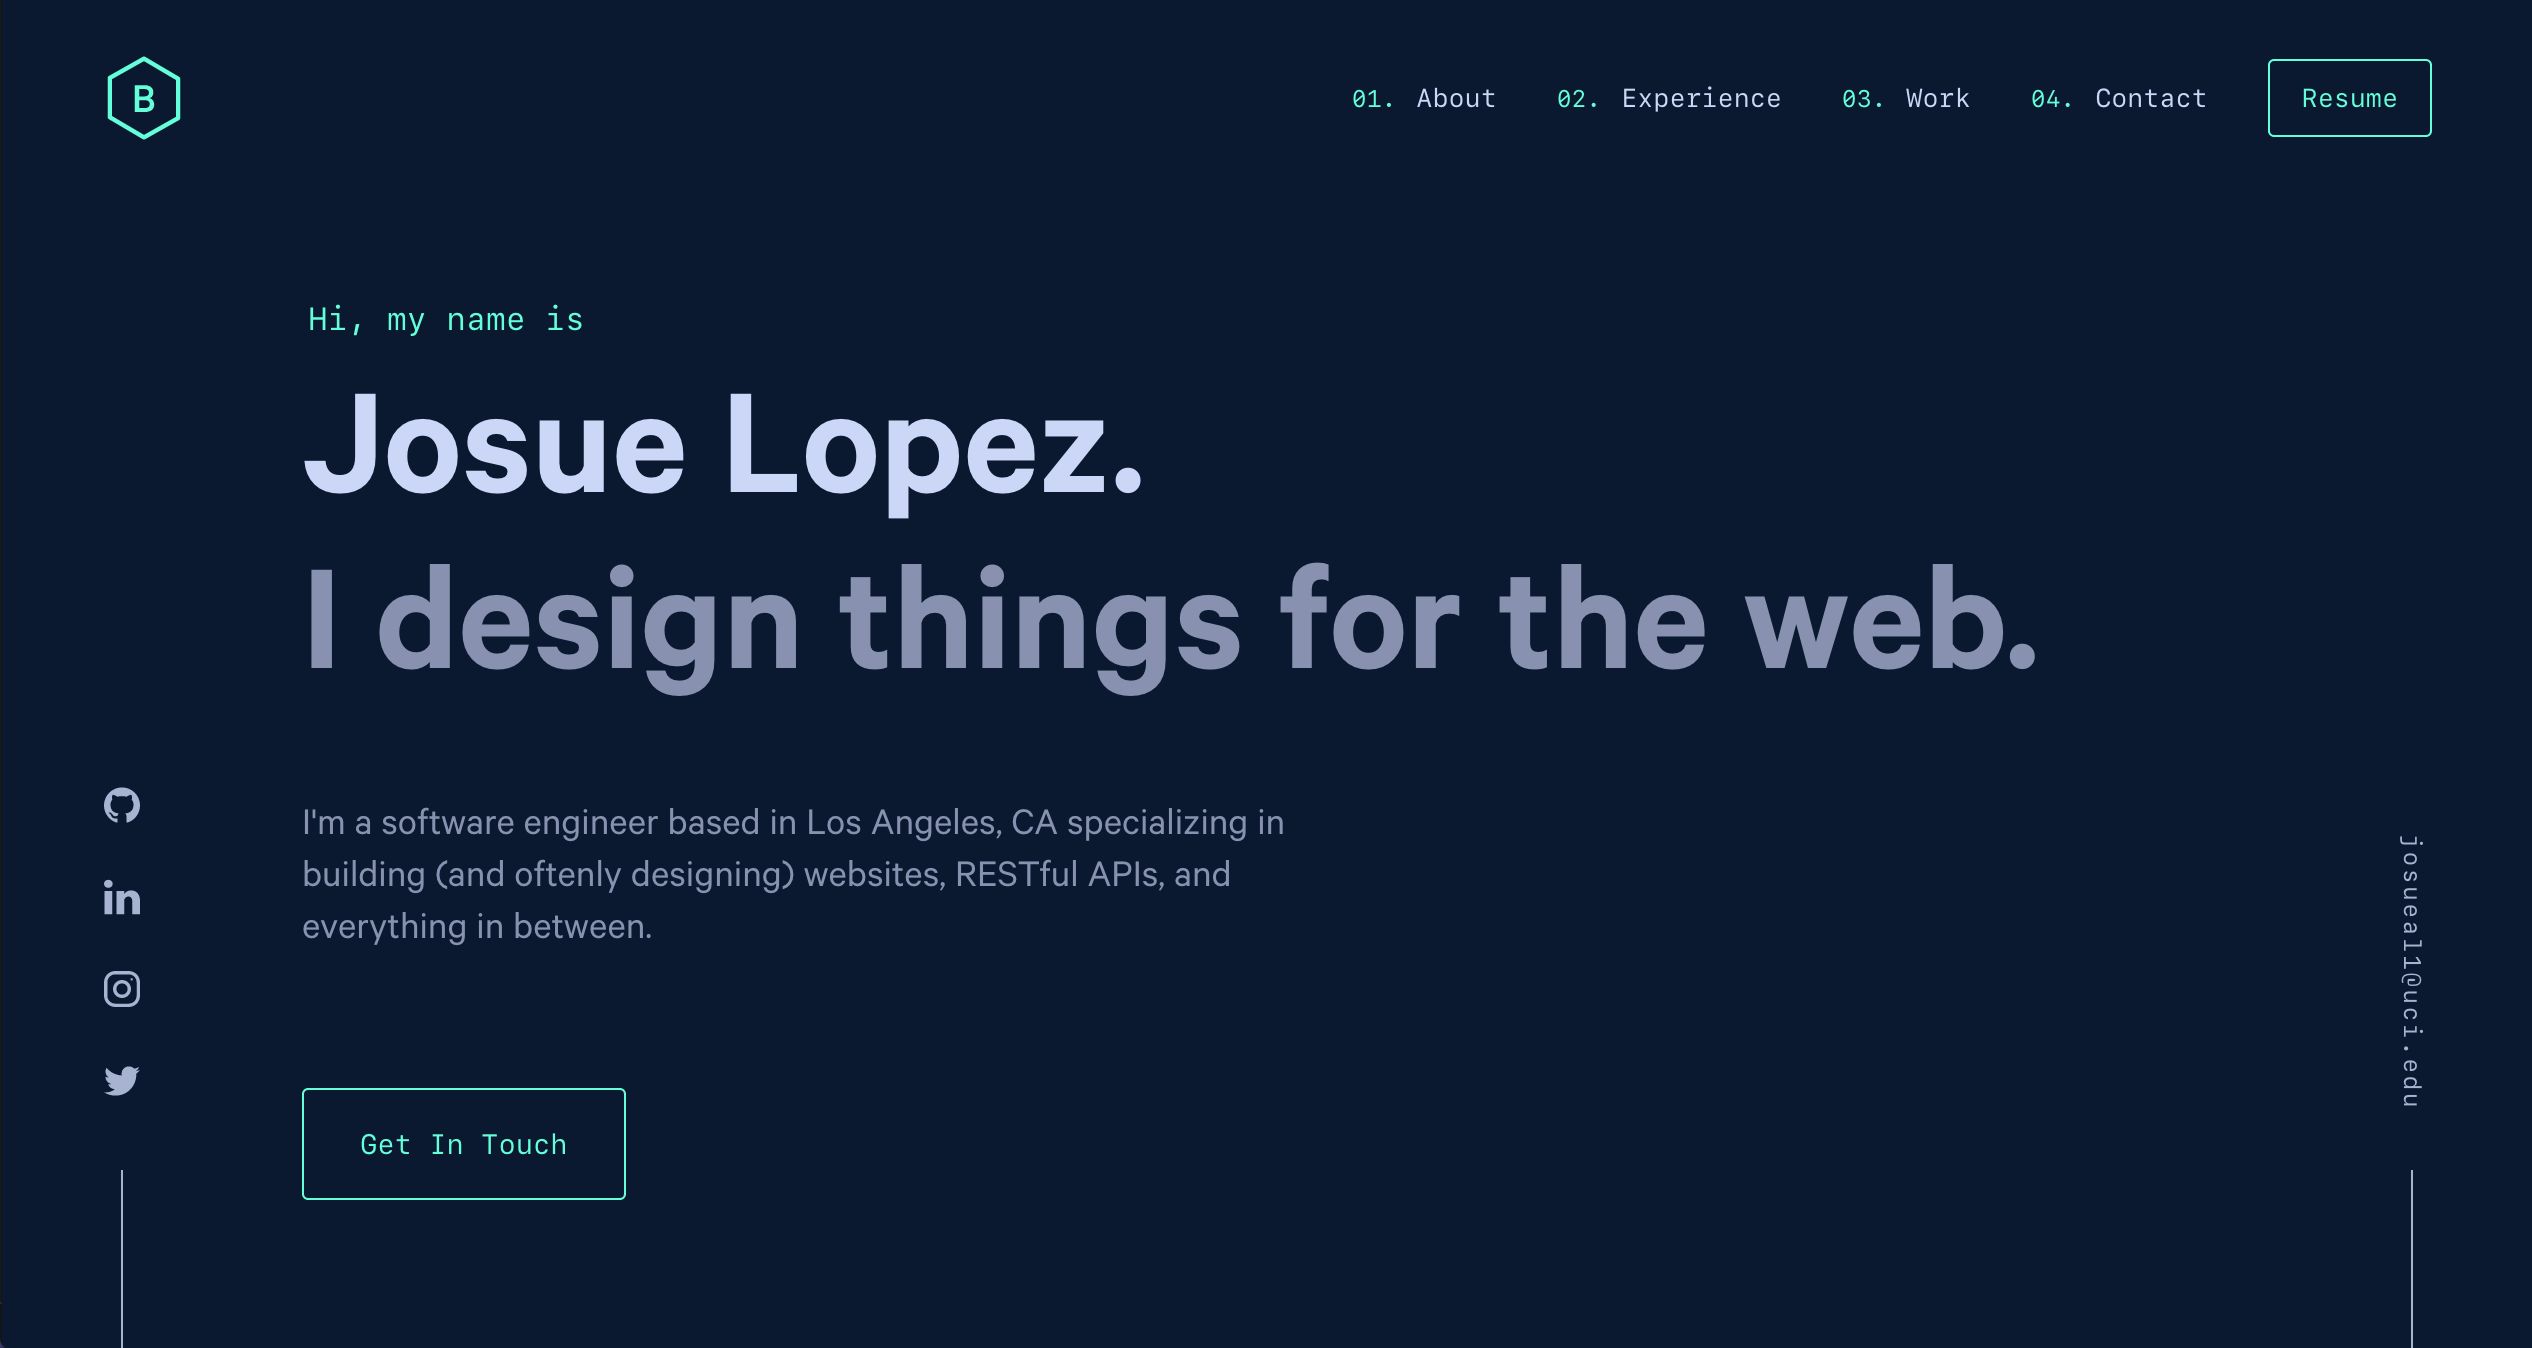
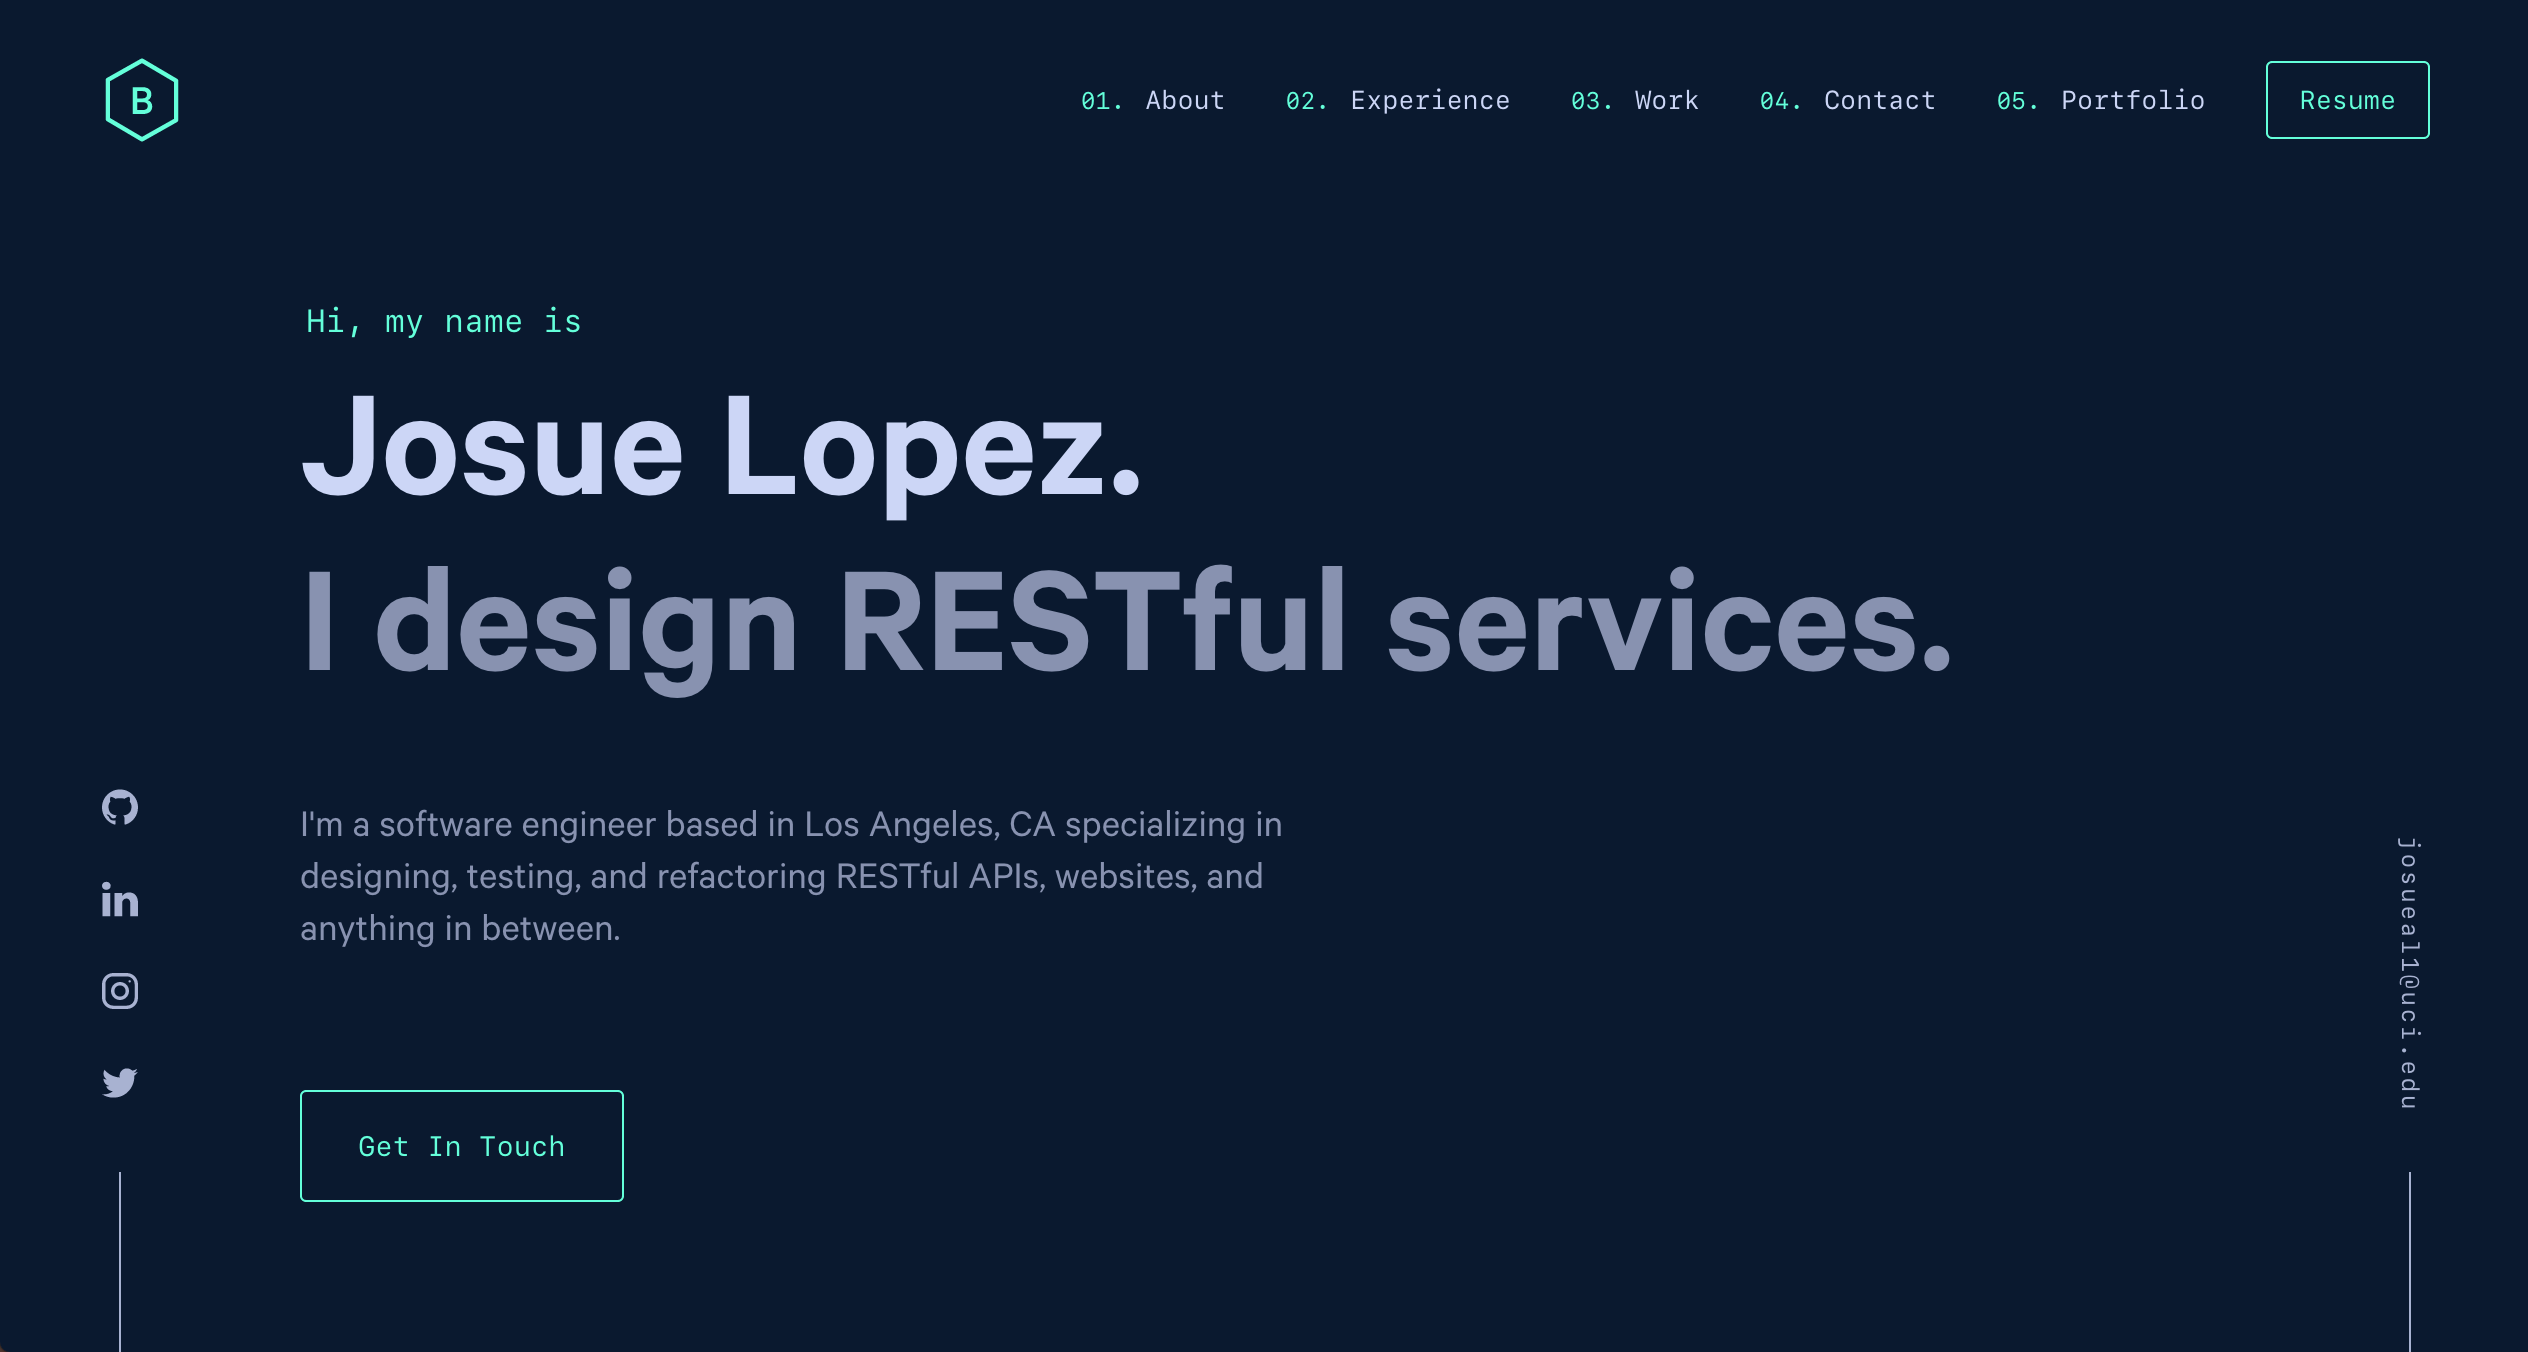
chore(release): 1.4.0 (#4)
* feat(): Create node.js.yml

* fix(): Place run commands under name commands

* feat(codebase): Add conventional commmits template

Motivation: To improve git logging and versioning

* refactor(package.json): Update author and repo url link

* feat(config.js): Edit site metadata and Google Analytics info
Motivation: For marketing purposes

* refactor(content): Update root page and About Me section

* chore(release): 1.0.0

* dbg(codebase): Automate versioning with standard-version

* chore(release): 1.0.1

* dbg(yarn.lock): Automated update

* feat(app): Redirect /30min to calendly page

Motivation: To continue connecting with people and stories

* chore(release): 1.1.0

* docs(codebase): Update README.md

* [feat][refactor]: Update /resume endpoint

* [feat][refactor](content): Update jobs index.md infos

* chore(release): 1.1.1

* WIP(src/images): Update demo.png to reflect on README.md

* chore(release): 1.1.2

* WIP(codebase): Reduce node-version checks and ON command

* chore(release): 1.1.3

* dbg(workflows): Create release tag on every push to 'production'

Motivation: To maintain semantic version of the code

* fix(workflows): Remove push rule to run test on 'master'

* refactor(workflow): Deleted semver.yml

Motivation: Must calculate chore and release tags manually

* chore(release): 1.1.4

* WIP: Create portfolio.js

* feat: Create /portfolio page, section, and content

* chore(release): 1.2.0

* WIP(components): Add Lightbox.js
[…]

diff --git a/src/components/Lightbox.js b/src/components/Lightbox.js
@@ -1,0 +1,171 @@
+// Author:  https://github.com/416serg/gatsby-starter-lightbox
+
+import React, { Component, Fragment } from 'react';
+import PropTypes from 'prop-types';
+import styled from 'styled-components';
+import Img from 'gatsby-image';
+
+class Lightbox extends Component {
+  state = {
+    showLightbox: false,
+    selectedImage: 0,
+  };
+
+  componentDidMount = () => {
+    window.addEventListener('keyup', this.handleKeyUp, false);
+  };
+
+  componentWillUnmount = () => {
+    window.removeEventListener('keyup', this.handleKeyUp, false);
+  };
+
+  handleClick = (e, index) => {
+    e.preventDefault();
+    this.setState({ showLightbox: !this.state.showLightbox, selectedImage: index });
+  };
+
+  closeModal = () => {
+    this.setState({ showLightbox: false });
+  };
+
+  goBack = () => {
+    this.setState({ selectedImage: this.state.selectedImage - 1 });
+  };
+
+  goForward = () => {
+    this.setState({ selectedImage: this.state.selectedImage + 1 });
+  };
+
+  handleKeyUp = e => {
+    e.preventDefault();
+    const { keyCode } = e;
+    if (this.state.showLightbox) {
+      if (keyCode === 37) {
+        // Left Arrow Key
+        if (this.state.selectedImage > 0) {
+          this.setState({ selectedImage: this.state.selectedImage - 1 });
+        }
+      }
+      if (keyCode === 39) {
+        // Right Arrow Key
+        if (this.state.selectedImage < this.props.images.length - 1) {
+          this.setState({ selectedImage: this.state.selectedImage + 1 });
+        }
+      }
+      if (keyCode === 27) {
+        // Escape key
+        this.setState({ showLightbox: false });
+      }
+    }
+  };
+
+  render() {
+    const { images } = this.props;
+    const { showLightbox, selectedImage } = this.state;
+    return (
+      <Fragment>
+        <Gallery>
+          {images.map((img, i) => (
+            <GalleryItem key={img.node.sizes.src}>
+              <a href={img.node.sizes.src} alt="Car Image" onClick={e => this.handleClick(e, i)}>
+                <StyledImg sizes={img.node.sizes} />
+              </a>
+            </GalleryItem>
+          ))}
+        </Gallery>
+
+        <LightboxModal visible={showLightbox} onKeyUp={e => this.handleKeyDown(e)}>
+          <LightboxContent>
+            <Img sizes={images[selectedImage].node.sizes} />
+            <Controls>
+              <Button onClick={this.closeModal}>Close</Button>
+              <LeftRight>
+                <Button onClick={this.goBack} disabled={selectedImage === 0}>
+                  Previous
+                </Button>
+                <Button onClick={this.goForward} disabled={selectedImage === images.length - 1}>
+                  Next
+                </Button>
+              </LeftRight>
+            </Controls>
+          </LightboxContent>
+        </LightboxModal>
+      </Fragment>
+    );
+  }
+}
+
+const StyledImg = styled(Img)`
+  position: fixed;
+  top: 0;
+  left: 0;
+  width: 100%;
+  z-index: -1;
+  height: 100%; // or whatever
+  & > img {
+    object-fit: cover !important; // or whatever
+    object-position: 0% 0% !important; // or whatever
+  }
+`;
+
+const Gallery = styled.div`
+  display: grid;
+  grid-template-columns: 1fr;
+  @media (min-width: 700px) {
+    grid-template-columns: 1fr 1fr;
+  }
+  @media (min-width: 900px) {
+    grid-template-columns: 1fr 1fr 1fr;
+  }
+
+  @media (min-width: 1100px) {
+    grid-template-columns: repeat(5, 1fr);
+  }
+
+  grid-gap: 15px;
+  .gatsby-image-outer-wrapper {
+    height: 100%;
+  }
+`;
+
+const GalleryItem = styled.div`
+  position: relative;
+`;
+
+const Button = styled.button``;
+
+const LightboxModal = styled.div`
+  position: absolute;
+  top: 0;
+  left: 0;
+  bottom: 0;
+  right: 0;
+  display: flex;
+  justify-content: center;
+  align-items: center;
+  background: rgba(0, 0, 0, 0.5);
+  opacity: ${props => (props.visible ? '1' : '0')};
+  visibility: ${props => (props.visible ? 'visible' : 'hidden')};
+`;
+const LightboxContent = styled.div`
+  margin: 15px;
+  max-width: 700px;
+  width: 100%;
+`;
+
+const Controls = styled.div`
+  display: flex;
+  justify-content: space-between;
+`;
+
+const LeftRight = styled.div`
+  button:first-child {
+    margin-right: 10px;
+  }
+`;
+
+Lightbox.propTypes = {
+  images: PropTypes.array.isRequired,
+};
+
+export default Lightbox;

diff --git a/src/components/footer.js b/src/components/footer.js
@@ -42,7 +42,7 @@ const StyledMetadata = styled.div`
 `;
 const StyledGitHubLink = styled.a`
   color: ${colors.lightSlate};
-  padding: 10px;
+  padding: 4px;
 `;
 const StyledGitHubInfo = styled.div`
   margin-top: 10px;
@@ -105,8 +105,13 @@ const Footer = () => {
           href="https://github.com/bchiang7/v4"
           target="_blank"
           rel="nofollow noopener noreferrer">
-          <div>Designed &amp; Built by Brittany Chiang</div>
-
+          <div>Designed by Brittany Chiang</div>
+        </StyledGitHubLink>
+        <StyledGitHubLink
+          href="https://github.com/josueal1/v4"
+          target="_blank"
+          rel="nofollow noopener noreferrer">
+          <div>&amp; Re-Built by Josue Lopez</div>
           {githubInfo.stars && githubInfo.forks && (
             <StyledGitHubInfo>
               <span>

diff --git a/src/components/index.js b/src/components/index.js
@@ -14,3 +14,4 @@ export { default as Featured } from './sections/featured';
 export { default as Projects } from './sections/projects';
 export { default as Contact } from './sections/contact';
 export { default as PortfolioSection } from './sections/portfolioSection';
+export { default as Lightbox } from './Lightbox';

diff --git a/src/config.js b/src/config.js
@@ -49,6 +49,10 @@ module.exports = {
       name: 'Contact',
       url: '/#contact',
     },
+    {
+      name: 'Portfolio',
+      url: '/portfolio',
+    },
   ],
 
   navHeight: 100,

diff --git a/CHANGELOG.md b/CHANGELOG.md
@@ -2,6 +2,22 @@
 
 All notable changes to this project will be documented in this file. See [standard-version](https://github.com/conventional-changelog/standard-version) for commit guidelines.
 
+## [1.4.0](https://github.com/josueal1/v4/compare/v1.3.0...v1.4.0) (2020-08-13)
+
+### Features
+
+- **src/images:** Update demo and og images with RESTful topics ([ac59ecb](https://github.com/josueal1/v4/commit/ac59ecbba0e202282bd9657644c3868df6403548))
+
+## [1.3.0](https://github.com/josueal1/v4/compare/v1.2.0...v1.3.0) (2020-08-13)
+
+### Features
+
+- **content/hero/index.md:** Update my slogan and description ([25c4bcf](https://github.com/josueal1/v4/commit/25c4bcf70bc9a94d3be42514f92e859e74b88638))
+- **pages/portfolio.js:** Change title to 'iPhone Portfolio' ([88603de](https://github.com/josueal1/v4/commit/88603de6eba98aee89a21af9f6370863eb13ba64))
+- **src/component/footer.js:** Add 'Re-Built by Josue' link ([6351afb](https://github.com/josueal1/v4/commit/6351afb4c7a20c58f99d3eeece5b6d9561249ee1))
+- **src/config.js:** Add /portfolio to NavLinks ([9491450](https://github.com/josueal1/v4/commit/9491450da5afa746904a1f119493fb42e7a45b97))
+- **src/images:** Update pics for GitHub and URL preview ([39d4bf6](https://github.com/josueal1/v4/commit/39d4bf64ab867afe8a2419e964175ea3e924c7d7))
+
 ## [1.2.0](https://github.com/josueal1/v4/compare/v1.1.4...v1.2.0) (2020-08-12)
 
 ### Features

diff --git a/content/hero/index.md b/content/hero/index.md
@@ -1,8 +1,8 @@
 ---
 title: 'Hi, my name is'
 name: 'Josue Lopez'
-subtitle: 'I design things for the web.'
+subtitle: 'I design RESTful services.'
 buttonText: 'Get In Touch'
 ---
 
-I'm a software engineer based in Los Angeles, CA specializing in building (and oftenly designing) websites, RESTful APIs, and everything in between.
+I'm a software engineer based in Los Angeles, CA specializing in designing, testing, and refactoring RESTful APIs, websites, and anything in between.

diff --git a/content/portfolio/index.md b/content/portfolio/index.md
@@ -1,5 +1,7 @@
 ---
-title: 'iPhoneography Portfolio'
+
+title: 'iPhone Portfolio'
+
 pic1: './san-salvador.JPG'
 pic2: './newport-trucks-golden-hour.jpg'
 pic3: './aldrich-park.JPG'
